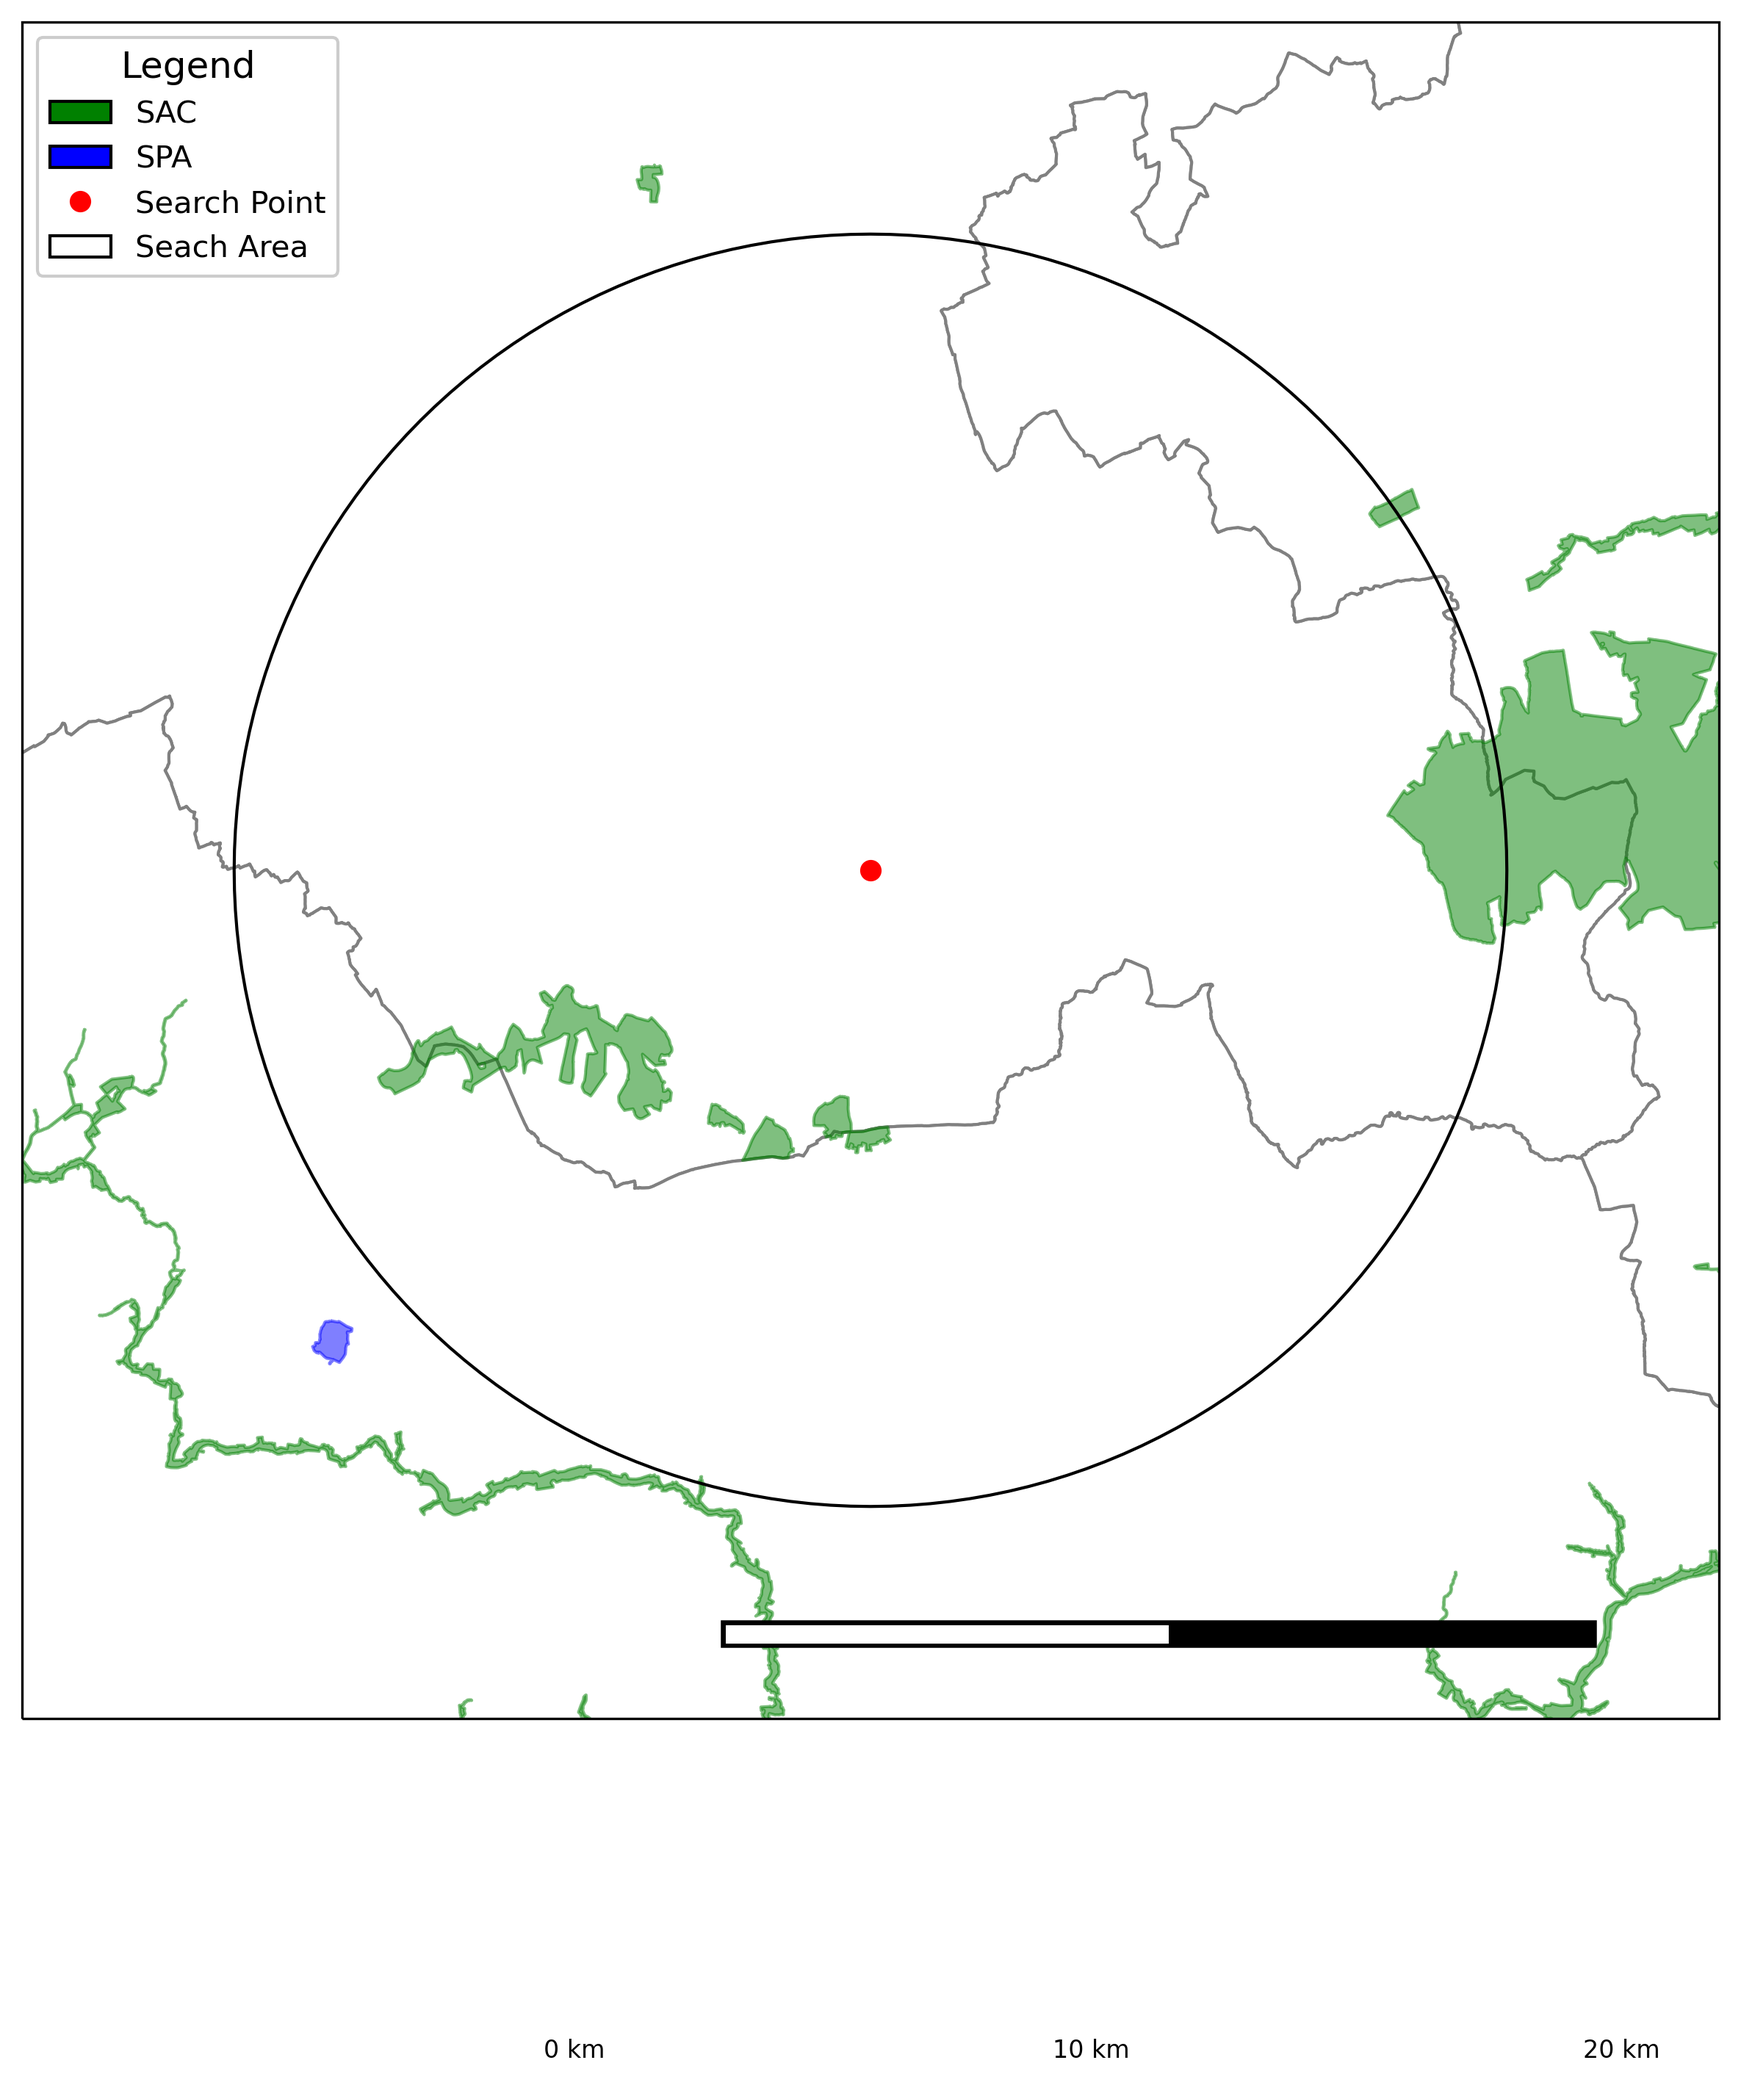
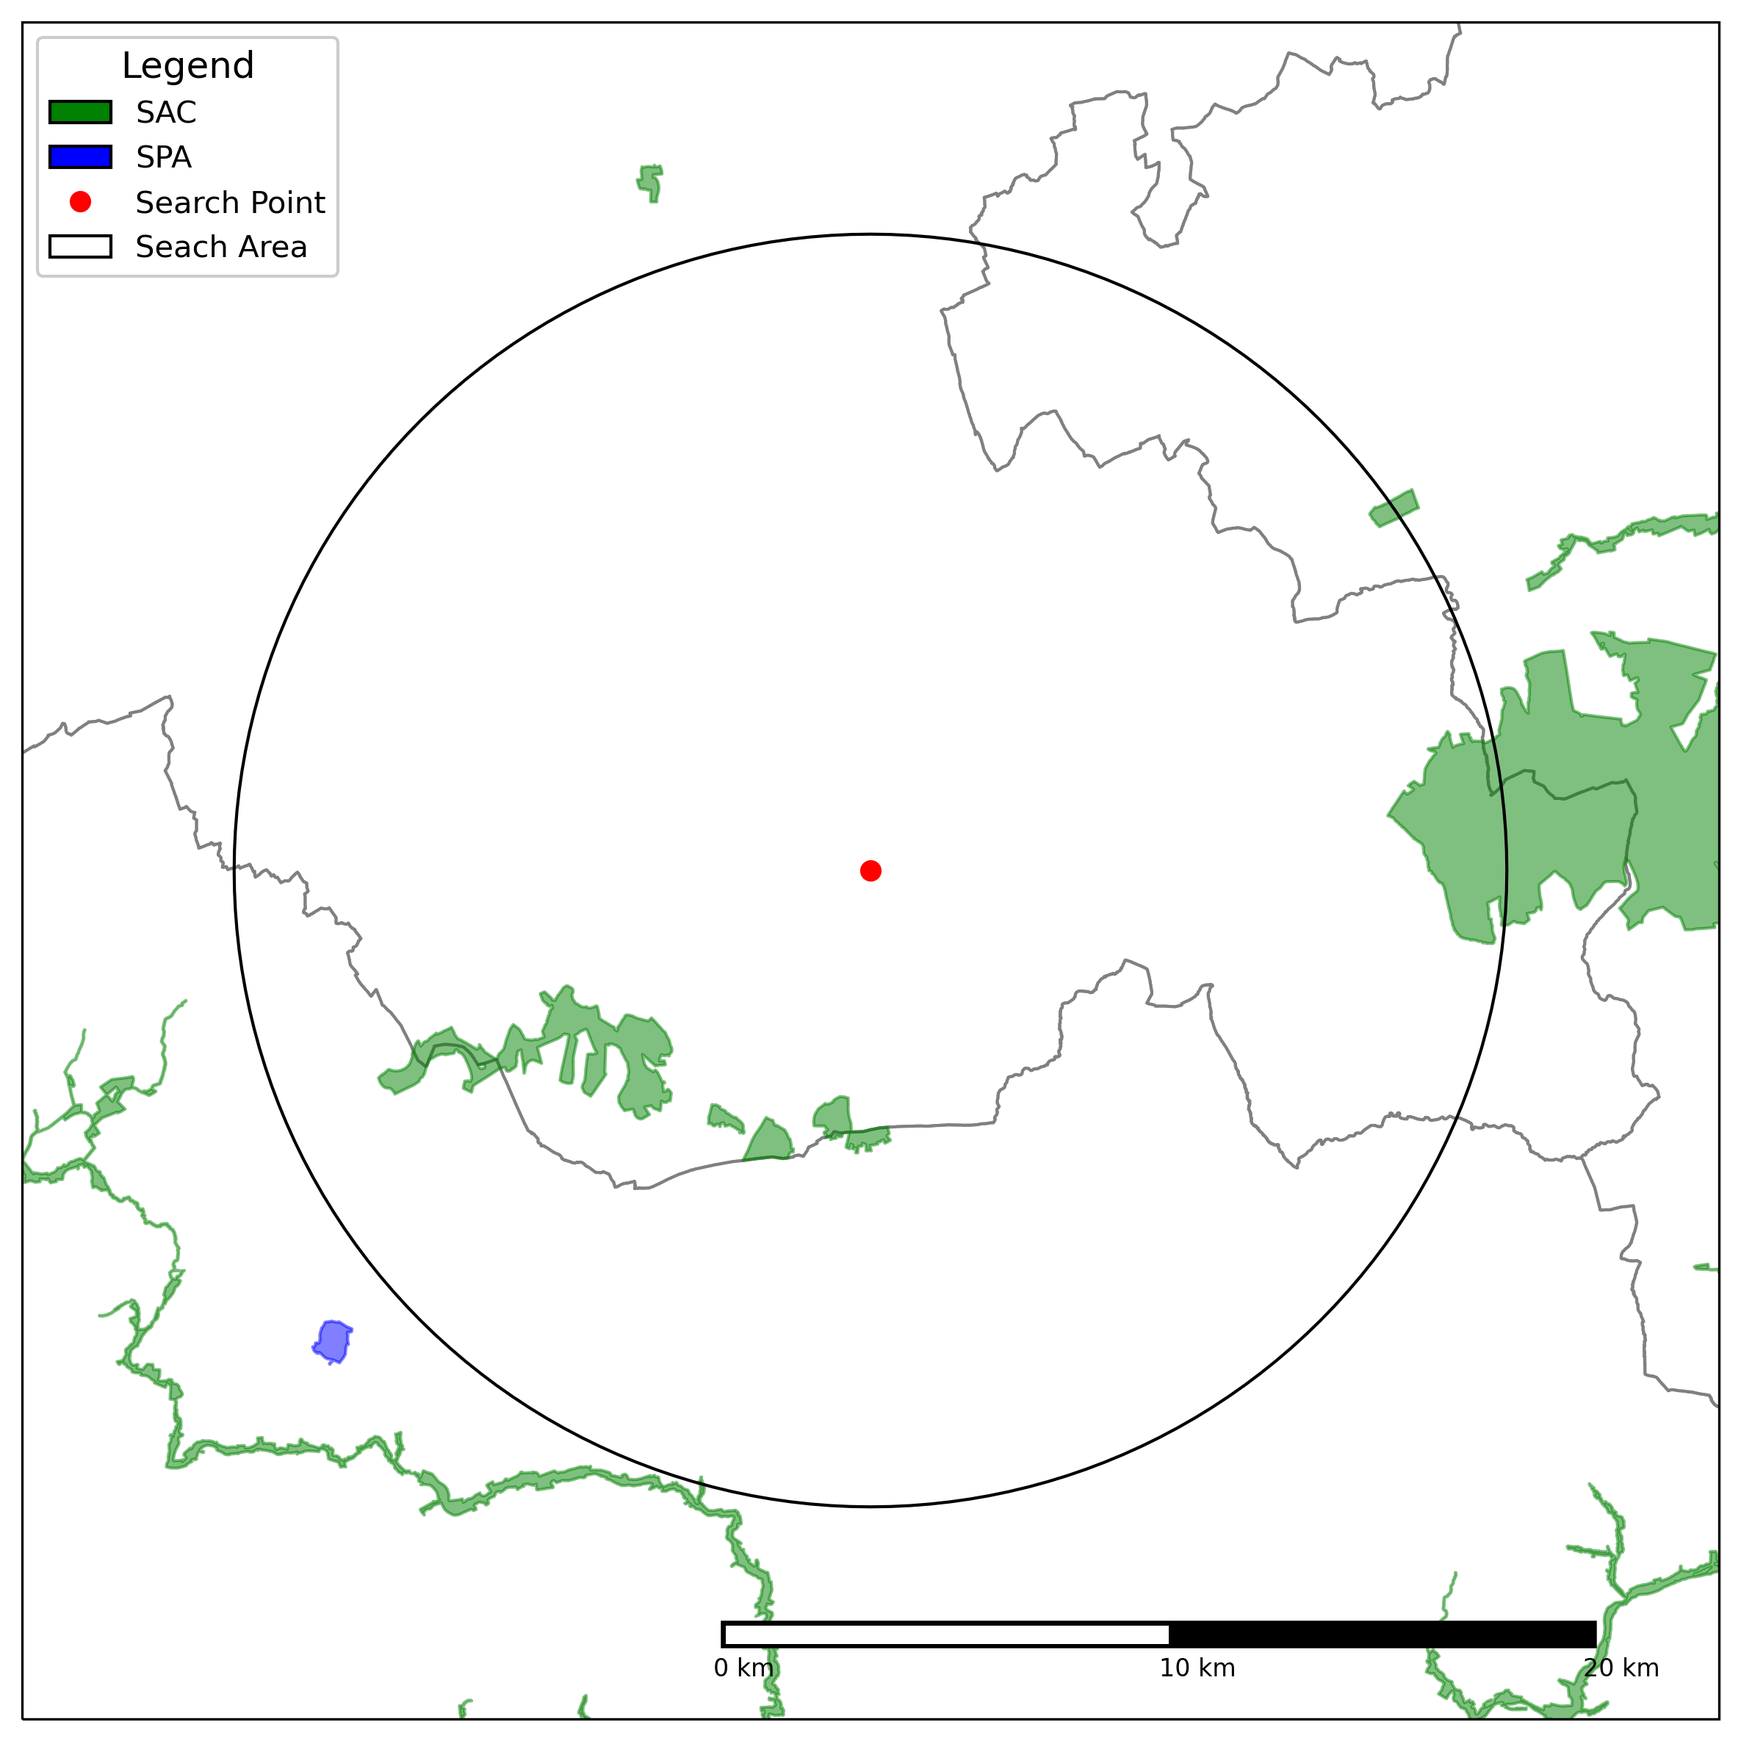
scalebar placement fix
Scalebar placement fix. Userinput automated for quicker code testing

diff --git a/Natura2000sites.py b/Natura2000sites.py
@@ -31,9 +31,9 @@ def scale_bar(ax, location=(0.92, 0.05)):
     ax.plot([sbx, sbx - 10000], [sby, sby], color='k', linewidth=6, transform=ax.projection)
     ax.plot([sbx-10000, sbx - 20000], [sby, sby], color='w', linewidth=6, transform=ax.projection)
 
-    ax.text(sbx, sby-10000, '20 km', transform=ax.projection, fontsize=8)
-    ax.text(sbx-12500, sby-10000, '10 km', transform=ax.projection, fontsize=8)
-    ax.text(sbx-24500, sby-10000, '0 km', transform=ax.projection, fontsize=8)
+    ax.text(sbx, sby-1000, '20 km', transform=ax.projection, fontsize=8)
+    ax.text(sbx-10000, sby-1000, '10 km', transform=ax.projection, fontsize=8)
+    ax.text(sbx-20500, sby-1000, '0 km', transform=ax.projection, fontsize=8)
 
 # ---------------------Import external shapefiles as GeoPandas Geodataframes----------------------------------------
 outline = gpd.read_file(os.path.abspath('data_files/Counties___Ungen_2019.shp'))
@@ -59,7 +59,7 @@ else:
 
 #while True:
 print ("Please enter ITM X coordinate (easting) of search point.\nCoordinates must be entered in a number format such as 123456.78")
-xin = float(input())
+xin = 570748.007 #float(input()) commented out for testing
 #    if xin != float or int:
  #       print('Coordinates must be entered in a number format such as 123456.78')
   #      continue
@@ -68,7 +68,7 @@ xin = float(input())
 
 #while True:
 print ("Please enter ITM Y coordinate (northing) of search point.\nCoordinates must be entered in a number format such as 123456.78")
-yin = float(input())
+yin = 621905.056 # commented out for testing float(input())
 #    if yin != float or int:
 #        print('Coordinates must be entered in a number format such as 123456.78')
 #        continue
